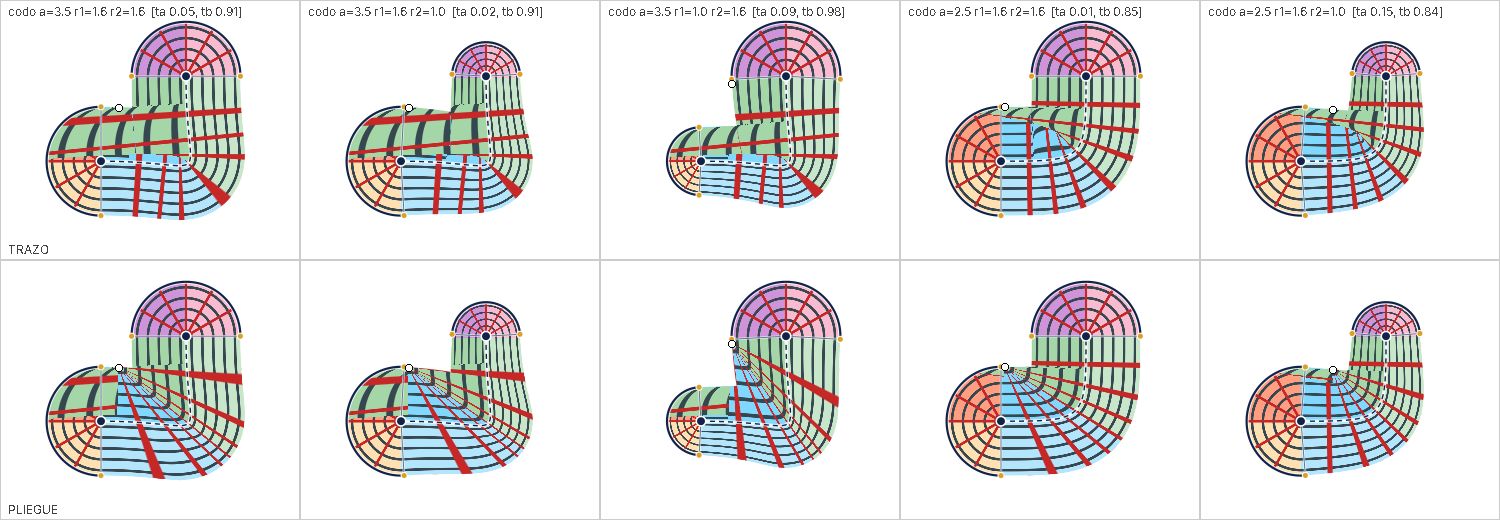
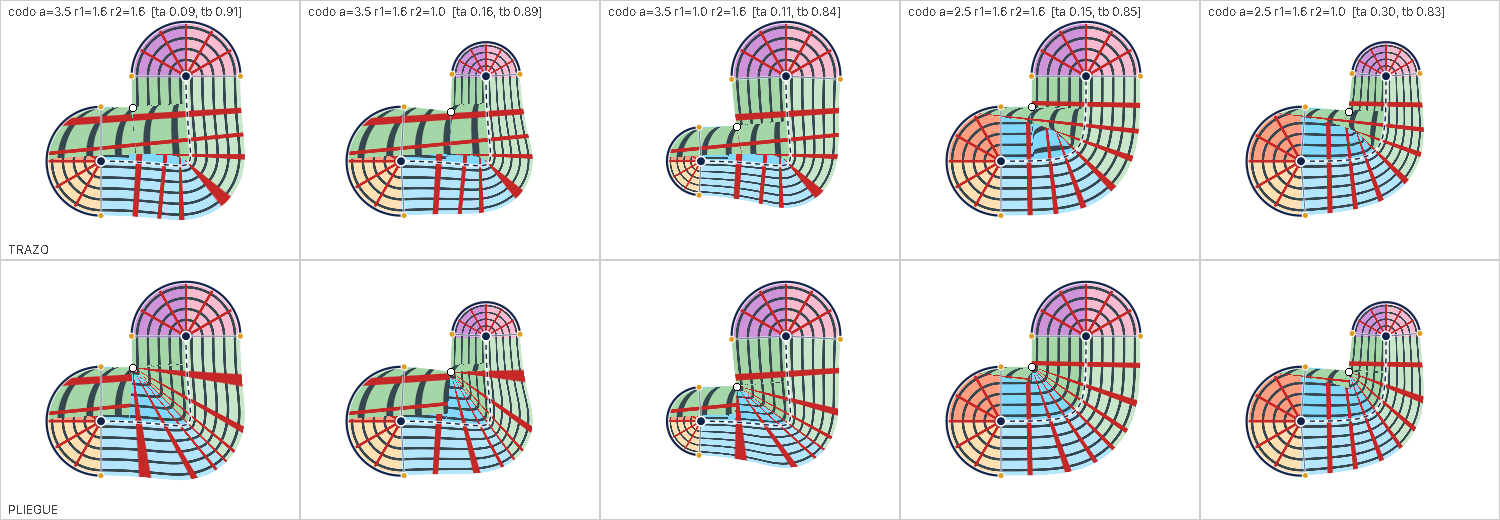
Pliegue: el cruce se busca en c(t) ± r(t)·N y no en la semianchura de la máscara
La máscara da, dentro del pliegue, la salida por la otra pierna del codo: X caía fuera del cruce real. Ahora ta y tb coinciden con
los de la prueba aparte (0,090 / 0,910 con a = 3,5 y r = 1,6). Las formas rígidas no se tratan.

Claude-Session: https://claude.ai/code/session_01BibuGpxHYXsoU2GosAu2A9

diff --git a/implementacion/java/src/main/java/Pliegue.java b/implementacion/java/src/main/java/Pliegue.java
@@ -79,10 +79,12 @@ final class Pliegue {
     }
 
     /**
-     * Busca el cruce del contorno interior recorrido por las normales de la tabla de semianchuras (hw[lado][i], i / m = t).
+     * Busca el cruce del contorno de la familia (c(t) ± r(t)·N) recorrido por las normales del camino. La tabla de semianchuras (hw[lado][i], i / m = t)
+ * solo se usa para el contorno exterior de la cuña.
      * Devuelve la zona, o null si ningún lado se cruza a sí mismo.
      */
     static Pliegue de(Geometria g, double[][] hw, int m) {
+        if (g.arcos() != null) return null;          // forma rígida: la silueta de cuatro arcos no se pliega
         Pliegue mejor = null;
         double mejorDt = 0;
         for (int l = 0; l < 2; l++) {
@@ -90,8 +92,9 @@ final class Pliegue {
             double[][] q = new double[m + 1][2];
             for (int i = 0; i <= m; i++) {
                 double[] tg = g.tangente(i / (double) m);
-                q[i][0] = g.cx(i / (double) m) + sg * hw[l][i] * tg[1];
-                q[i][1] = g.cy(i / (double) m) - sg * hw[l][i] * tg[0];
+                double h = g.rad(i / (double) m);      // contorno de la familia a lo largo de la normal: no el de la máscara, que en el pliegue
+                q[i][0] = g.cx(i / (double) m) + sg * h * tg[1];     // sale por la otra pierna del codo (la normal vuelve a entrar en la gota)
+                q[i][1] = g.cy(i / (double) m) - sg * h * tg[0];
             }
             int bi = -1, bj = -1; double bs = 0, bu = 0;
             for (int i = 0; i < m; i++) for (int j = i + HUECO; j < m; j++) {

diff --git a/implementacion/java/ESTUDIO_SOLAPES.md b/implementacion/java/ESTUDIO_SOLAPES.md
@@ -350,9 +350,12 @@ a polares con centro en X. Es opt-in (`Solape.PLIEGUE`); con otra costura, o sin
   lo mismo que en la tira (hw interior + hw exterior), así que las coordenadas casan en los bordes.
 - **Dentro**: el ángulo del rayo desde X da t (el de la espina en el punto donde el rayo la corta); a lo largo del rayo, q (el u con signo) es lineal
   por tramos: 1 en X, 0 en la espina, −1 en el contorno exterior.
+- **Cruce**: se busca en el contorno de la familia c(t) ± r(t)·N, no en el de la máscara. La primera versión usaba la semianchura de la máscara y
+  colocaba mal X: en el pliegue la normal vuelve a entrar en la gota por la otra pierna del codo y la máscara da una distancia que no es el contorno.
+  La semianchura solo se usa para el contorno exterior de la cuña. Las formas rígidas (`arcos() != null`) no se tratan.
 - **Medido** (`EstudioPliegue`, imagen `estudio/pliegue_polar.png`, arriba TRAZO y abajo PLIEGUE): en los cinco codos probados el pliegue desaparece y la
-  zona interior queda cubierta una sola vez; cambia entre el 16 % y el 32 % de los píxeles de la gota. Las suites de `Todas` pasan (11 suites, 0 fallos).
-- **Observado, no probado**: la zona sale de la tabla de semianchuras de la máscara, así que X no coincide exactamente con el de la envolvente
-  analítica (con a = 3,5 y r = 1,6, ta = 0,048 y no 0,09); no hay comparación con la envolvente exacta ni con la costura ESPIGA.
-- **Pendiente**: solo un cruce por gota (S, espirales); radios muy distintos con la envolvente inclinada; continuidad de la derivada en los bordes
-  de la cuña; el codo con r1 = 1,0 y r2 = 1,6 da una cuña que ocupa casi todo el camino (tb = 0,98) y queda irregular.
+  zona interior queda cubierta una sola vez; cambia entre el 10 % y el 24 % de los píxeles de la gota. ta y tb coinciden con los de una prueba
+  aparte en Python (a = 3,5 y r = 1,6: 0,090 / 0,910; a = 2,5 y r = 1,6: 0,145 / 0,855). Las suites de `Todas` pasan (11 suites, 0 fallos).
+- **Observado, no probado**: el contorno usa c ± r·N, sin la inclinación de la envolvente exacta cuando los radios cambian; la continuidad de la derivada en los
+  bordes de la cuña no se ha medido.
+- **Pendiente**: solo un cruce por gota (S, espirales); costuras ESPIGA y SUAVIZADO; radios muy distintos con la envolvente inclinada.
